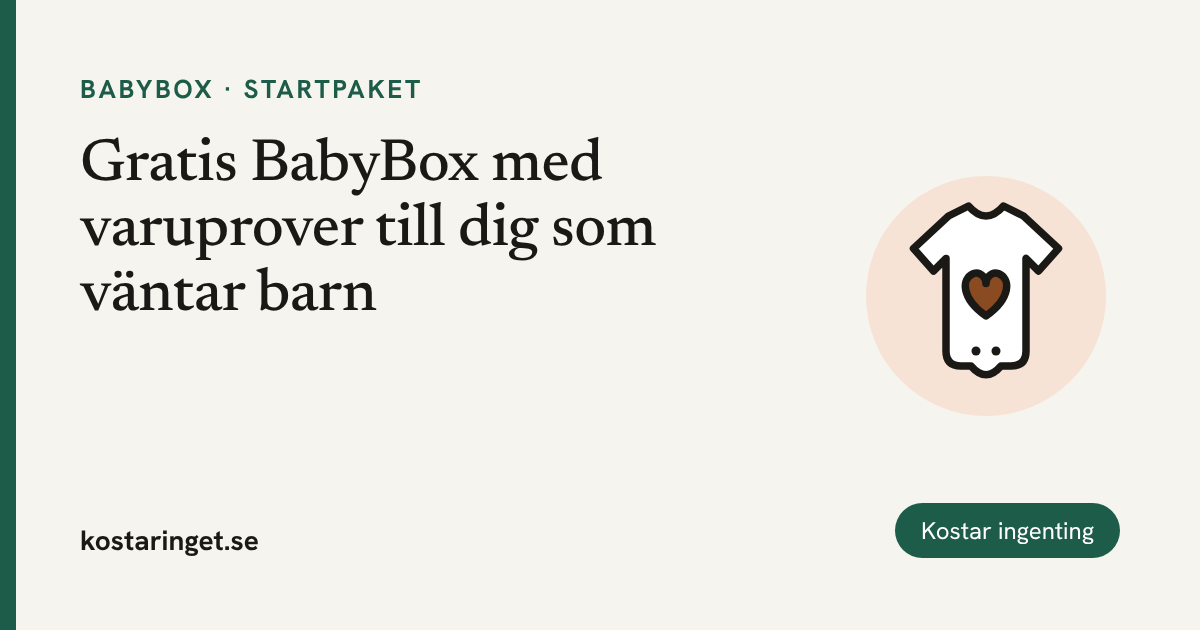
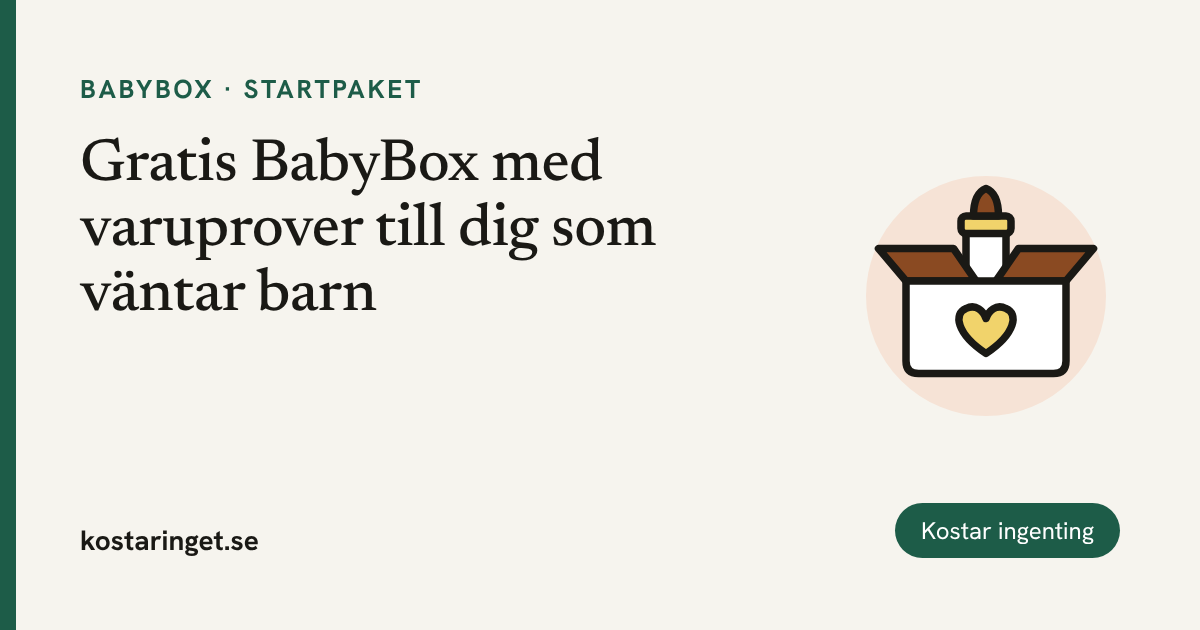
Fler illustrationer för provperioder och startpaket
- Nya motiv: timglas, ljudbok, tidning, babybox, nalle, BB-väska, nappflaska, valp och katt
- Erbjudanden väljer motiv efter typ (provperiod, startpaket) eller eget fält illustration
- Delningsbilderna använder samma motiv

Claude-Session: https://claude.ai/code/session_011DFCg6zjBtS2qfhzcGcdLf

Changed region(s): [[0.7092, 0.3016, 0.925, 0.6032]]

diff --git a/src/lib/illustrations.ts b/src/lib/illustrations.ts
@@ -13,9 +13,26 @@ export const illustrationNames = [
   'bok',
   'jul',
   'hero',
+  'timglas',
+  'ljudbok',
+  'tidning',
+  'babybox',
+  'nalle',
+  'vaska',
+  'nappflaska',
+  'valp',
+  'katt',
 ] as const;
 export type IllustrationName = (typeof illustrationNames)[number];
 
 export function illustrationFor(category?: string): IllustrationName {
   return (illustrationNames as readonly string[]).includes(category ?? '') ? (category as IllustrationName) : 'ovrigt';
+}
+
+/** Drawing for an offer: its own choice, a default for trials and starter packs, else its category. */
+export function offerIllustrationName(data: { illustration?: IllustrationName; type: string; category: string }): IllustrationName {
+  if (data.illustration) return data.illustration;
+  if (data.type === 'provperiod') return 'timglas';
+  if (data.type === 'startpaket') return data.category === 'djur' ? 'valp' : 'babybox';
+  return illustrationFor(data.category);
 }

diff --git a/src/content.config.ts b/src/content.config.ts
@@ -21,6 +21,8 @@ const erbjudanden = defineCollection({
     title: z.string(),
     /** Shorter title for Google (max ~55 characters). Falls back to title. */
     seoTitle: z.string().optional(),
+    /** Drawing from src/illustrations/. Defaults by type (provperiod, startpaket) or category. */
+    illustration: z.enum(illustrationNames).optional(),
     /** Meta description, ideally 120–160 characters. */
     description: z.string(),
     brand: z.string(),

diff --git a/docs/daglig-rutin.md b/docs/daglig-rutin.md
@@ -119,6 +119,7 @@ Har dagen inte fått något inlägg när kvällskörningen är klar: skriv en gu
 - Titlar ska vara konkreta och sökbara: vad, från vem, och att det är gratis.
 - Google visar ungefär 60 tecken av en titel. Blir `title` längre än 55 tecken: lägg till `seoTitle` med en kortare variant (högst 55 tecken) i både erbjudanden och inlägg.
 - Inlägg får automatiskt kategorins illustration. Passar en annan bättre i en guide, sätt `illustration:` till en av `kalender`, `vinter`, `bok` eller `jul` (alla finns i `src/illustrations/`). Använd aldrig företagens logotyper eller produktbilder.
+- Erbjudanden får illustration automatiskt: provperioder ett timglas, startpaket en babybox (husdjur: valp), övriga kategorins bild. Passar ett annat motiv bättre, sätt `illustration:` till exempel `ljudbok`, `tidning`, `nalle`, `vaska`, `nappflaska`, `katt` eller `bok`.
 
 ## 6. Städa bland gamla erbjudanden
 

diff --git a/src/content/erbjudanden/arken-zoo-gratis-adoptionskit-katt.md b/src/content/erbjudanden/arken-zoo-gratis-adoptionskit-katt.md
@@ -1,6 +1,7 @@
 ---
 title: Gratis adoptionskit från Arken Zoo när du adopterar en katt
 seoTitle: "Gratis adoptionskit för katt från Arken Zoo"
+illustration: katt
 description: Adopterar du en katt från ett katthem får du ett gratis startkit hos Arken Zoo med kattsand, torrfoder, våtfoder och en leksak, värt upp till 831 kr.
 brand: Arken Zoo
 category: djur

diff --git a/src/content/erbjudanden/one-million-babies-gratis-valkomstpaket.md b/src/content/erbjudanden/one-million-babies-gratis-valkomstpaket.md
@@ -1,5 +1,6 @@
 ---
 title: Gratis välkomstpaket till gravida från One Million Babies
+illustration: nappflaska
 description: Gravidappen One Million Babies skickar ett gratis välkomstpaket med badtermometer, napphållare, amningsinlägg, salvprov och våtservetter. Beställs i appen.
 brand: One Million Babies
 category: foraldrar

diff --git a/src/content/erbjudanden/babybag-gratis-bb-mvc.md b/src/content/erbjudanden/babybag-gratis-bb-mvc.md
@@ -1,5 +1,6 @@
 ---
 title: Gratis BabyBag med varuprover – delas ut på BB och MVC
+illustration: vaska
 description: BabyBag är en gratis väska med produkter, varuprover och information till blivande och nyblivna föräldrar. Den delas ut på BB, förlossningar och MVC i hela Sverige.
 brand: BabyBag
 category: foraldrar

diff --git a/src/content/erbjudanden/aftonbladet-plus-student-5-manader-gratis.md b/src/content/erbjudanden/aftonbladet-plus-student-5-manader-gratis.md
@@ -1,5 +1,6 @@
 ---
 title: Aftonbladet Plus gratis i 5 månader för studenter
+illustration: tidning
 description: Studenter kan läsa Aftonbladet Plus för 0 kr i fem månader via Mecenat. Gäller nya kunder. Därefter fortsätter prenumerationen för 79 kr i månaden.
 brand: Aftonbladet
 category: tjanster

diff --git a/src/content/erbjudanden/babysam-gratis-babypaket.md b/src/content/erbjudanden/babysam-gratis-babypaket.md
@@ -1,5 +1,6 @@
 ---
 title: Gratis babypaket från BabySam med presentkort på 150 kr
+illustration: nalle
 description: BabySam ger gravida och nyblivna föräldrar ett gratis babypaket med produkter, prover och ett presentkort på 150 kr. Hämtas i närmaste BabySam-butik.
 brand: BabySam
 category: foraldrar

diff --git a/src/content/erbjudanden/bookbeat-ljudbocker-30-dagar-gratis.md b/src/content/erbjudanden/bookbeat-ljudbocker-30-dagar-gratis.md
@@ -1,5 +1,6 @@
 ---
 title: Lyssna på ljudböcker gratis i 30 dagar med BookBeat
+illustration: ljudbok
 description: BookBeat ger nya användare 30 dagars gratis provperiod med 20 timmars lyssning och läsning. Efter provperioden kostar abonnemanget från 99 kr per månad.
 brand: BookBeat
 category: tjanster

diff --git a/src/content/erbjudanden/trippel-viaplay-storytel-podme-30-dagar.md b/src/content/erbjudanden/trippel-viaplay-storytel-podme-30-dagar.md
@@ -1,5 +1,6 @@
 ---
 title: Viaplay, Storytel och Podme gratis i 30 dagar med Trippel
+illustration: tjanster
 description: Trippel samlar Viaplay, Storytel och Podme i ett paket, och nya kunder kan prova alla tre gratis i 30 dagar. Därefter blir det ett betalt abonnemang.
 brand: Trippel
 category: tjanster

diff --git a/src/content/erbjudanden/allt-for-foraldrar-gravidpaket.md b/src/content/erbjudanden/allt-for-foraldrar-gravidpaket.md
@@ -1,5 +1,6 @@
 ---
 title: Gravidpaketet från Allt för föräldrar
+illustration: nappflaska
 description: Allt för föräldrar erbjöd ett gravidpaket med värdecheckar, babystrumpor och babyboken Ellis. Erbjudandet finns inte längre kvar.
 brand: Allt för föräldrar
 category: foraldrar

diff --git a/src/content/erbjudanden/goboken-valkomstpaket-bebis.md b/src/content/erbjudanden/goboken-valkomstpaket-bebis.md
@@ -1,5 +1,6 @@
 ---
 title: Gratis välkomstpaket till bebis från Goboken
+illustration: bok
 description: Gobokens gratis välkomstpaket till bebis har just nu jultema, med en julbok, sångkort och en haklapp. Paketet är gratis, frakten kostar 79 kr.
 brand: Goboken
 category: foraldrar
